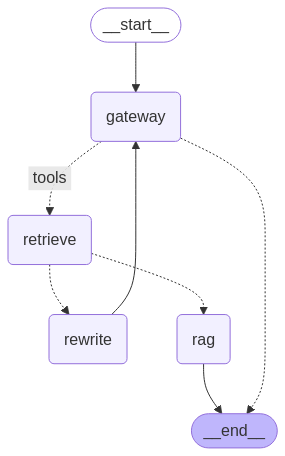
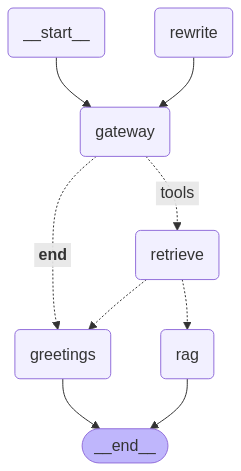
Created greetings
changed the logic a little bit to better fit our case, we always get a response, either RAG or greetings and explaining the capabilities

diff --git a/app/backend/agents/greet.py b/app/backend/agents/greet.py
@@ -1,0 +1,45 @@
+from app.backend.llm.groq import GroqLLM
+from langchain_core.messages import HumanMessage
+
+
+def greet(state):
+    """
+    Greet the user and/or explain what you can do.
+
+    Args:
+        state (messages): The current state
+        
+    Returns:
+        dict: The updated state with greetings
+    """
+
+    print("---GREET---")
+    messages = state["messages"]
+    question = messages[0].content
+
+    msg = [
+        HumanMessage(
+            content=f""" \n 
+    You are a helpful assistant, called BONsAI, and you will help GEO BON members.\n
+    The Group on Earth Observations Biodiversity Observation Network (GEO BON) is a global network of researchers dedicated to improving the acquisition, coordination, and delivery of biodiversity information at the global, regional, and national levels.
+    For now, your responsibility is solely to respond to users' greetings (only if they greet) and explain to them what BONsAI can do for them.
+    Here is what BONsAI can do for users:\n
+    BONsAI is an assistant that can answer users' queries only based on the following resources:\n
+    1. GEO BON Scientific Publications: https://geobon.org/documents/scientific-publications/\n
+    2. BON in a Box tools catalogue: https://boninabox.geobon.org/tools\n
+    3. BON in a Box pipelines github repository: https://github.com/GEO-BON/bon-in-a-box-pipelines\n
+    BONsAI cannot answer queries that their answers can't be found in the above sources.
+    Look at the user's input and respond to them properly.\n 
+    Here is the initial question:
+    \n ------- \n
+    {question} 
+    \n ------- \n
+    Your response (include the links): """,
+        )
+    ]
+
+    # Grader
+    rewrite_model = GroqLLM.load_llm()
+    response = rewrite_model.invoke(msg)
+    return {"messages": [response]}
+

diff --git a/app/backend/graph/rag_graph.py b/app/backend/graph/rag_graph.py
@@ -1,7 +1,7 @@
 from langgraph.graph import END, StateGraph, START
 from langgraph.prebuilt import ToolNode, tools_condition
 from app.backend.tools.retriever_tool import doc_retriever
-from app.backend.agents import AgentState, gateway, grade_docs, rag, rewrite
+from app.backend.agents import AgentState, gateway, grade_docs, rag, rewrite, greet
 from langgraph.graph.graph import CompiledGraph
 
 def create_rag_graph() -> CompiledGraph:
@@ -13,10 +13,10 @@ def create_rag_graph() -> CompiledGraph:
     workflow.add_node("gateway", gateway)  # agent
     retrieve = ToolNode([doc_retriever])
     workflow.add_node("retrieve", retrieve)  # retrieval
+    workflow.add_node("greetings", greet)
     workflow.add_node("rewrite", rewrite)  # Re-writing the question
-    workflow.add_node(
-        "rag", rag
-    )  # Generating a response after we know the documents are relevant
+    workflow.add_node("rag", rag)  # Generating a response after we know the documents are relevant
+    
     # Call gateway node to decide to retrieve or not
     workflow.add_edge(START, "gateway")
 
@@ -28,9 +28,10 @@ def create_rag_graph() -> CompiledGraph:
         {
             # Translate the condition outputs to nodes in our graph
             "tools": "retrieve",
-            END: END,
+            END: "greetings",
         },
     )
+    workflow.add_edge("greetings", END)
 
     # Edges taken after the `action` node is called.
     workflow.add_conditional_edges(

diff --git a/app/backend/agents/rag.py b/app/backend/agents/rag.py
@@ -25,8 +25,7 @@ def rag(state):
         template="""You are an assistant, called BON AI, for question-answering tasks.\n
         Use the following pieces of retrieved documents to answer the question.\n
         The documents contain metadata and content.\n
-        If you don't know the answer, just say that you don't know.\n
-        Use three sentences maximum and keep the answer concise.\n\n
+        If you don't know the answer, just say that you don't know.\n\n
         Question: {question}\n\n
         Documents:\n\n{context}\n\n
         Answer:""",

diff --git a/app/backend/agents/grade_documents.py b/app/backend/agents/grade_documents.py
@@ -4,7 +4,7 @@ from pydantic import BaseModel, Field
 from langchain_core.prompts import PromptTemplate
 
 
-def grade_docs(state) -> Literal["rag", "rewrite"]:
+def grade_docs(state) -> Literal["rag", "greetings"]:
     """
     Determines whether the retrieved documents are relevant to the question.
 
@@ -58,4 +58,4 @@ def grade_docs(state) -> Literal["rag", "rewrite"]:
     else:
         print("---DECISION: DOCS NOT RELEVANT---")
         print(score)
-        return "rewrite"
+        return "greetings"

diff --git a/app/frontend/ui.py b/app/frontend/ui.py
@@ -2,9 +2,9 @@ import streamlit as st
 from app.backend.run_backend import stream_response  # Uses the preloaded graph
 
 # Set Streamlit Page Configuration
-st.set_page_config(page_title="BON AI", page_icon="🤖")
+st.set_page_config(page_title="BONsAI", page_icon="🌍")
 
-st.title("🤖 BON AI")
+st.title("🌍 BONsAI")
 
 # Initialize chat history
 if "messages" not in st.session_state:

diff --git a/app/backend/run_backend.py b/app/backend/run_backend.py
@@ -20,3 +20,5 @@ def stream_response(user_input):
     for msg, metadata in rag_graph.stream(inputs, stream_mode="messages"):
         if msg.content and metadata["langgraph_node"] == "rag":
             yield msg.content
+        if msg.content and metadata["langgraph_node"] == "greetings":
+            yield msg.content

diff --git a/app/backend/agents/__init__.py b/app/backend/agents/__init__.py
@@ -3,3 +3,4 @@ from .gateway import gateway
 from .grade_documents import grade_docs
 from .rag import rag
 from .rewrite import rewrite
+from .greet import greet
